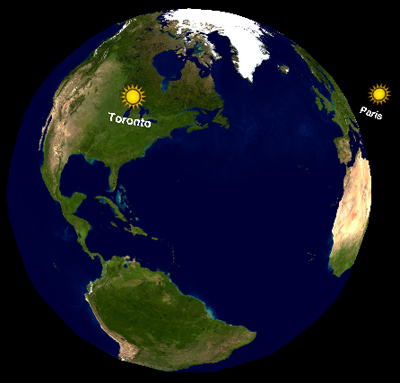
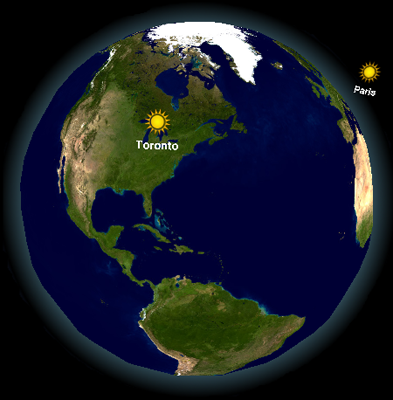
- Added atmosphere mesh

diff --git a/build/earth.min.js b/build/earth.min.js
@@ -1,1 +1,1 @@
-var EarthJsHelper;!function(a){var b=function(){function b(){a.Container.instance=this,this.dependencies={}}return b.prototype.register=function(a,b){this.dependencies[a]=b},b}();a.Container=b}(EarthJsHelper||(EarthJsHelper={}));var EarthJsModel;!function(a){var b=function(){function a(a,b,c,d){this.x=a,this.y=b,this.z=c,this.earthRadius=null!=d&&void 0!=d?d:Math.sqrt(Math.pow(a,2)+Math.pow(b,2)+Math.pow(c,2))}return a.prototype.calculateLatitudeLongitude=function(){var a=this.x,b=this.y,d=-this.z,e=6378137/this.earthRadius;a*=e,d*=e,b*=e;var f,g,h,i,j,k,l,m,n=6378137,o=.081819190842622,p=3.141592653589793;f=Math.sqrt(Math.pow(n,2)*(1-Math.pow(o,2))),g=Math.sqrt((Math.pow(n,2)-Math.pow(f,2))/Math.pow(f,2)),h=Math.sqrt(Math.pow(a,2)+Math.pow(d,2)),i=Math.atan2(n*b,f*h),j=Math.atan2(d,a),k=Math.atan2(b+g*g*f*Math.pow(Math.sin(i),3),h-o*o*n*Math.pow(Math.cos(i),3)),l=n/Math.sqrt(1-o*o*Math.pow(Math.sin(k),2)),m=h/Math.cos(k)-l,k=180*k/p,j=180*j/p;var q=new c(k,j);return q},a}();a.XyzPosition=b;var c=function(){function a(a,b,c){this.latitude=a,this.longitude=b,this.earthRadius=null!=c&&void 0!=c?c:EarthJsHelper.Container.instance.dependencies.appInstance.dataPointDistance,this.calculateCartesianCoordinates()}return a.prototype.calculateCartesianCoordinates=function(){var a=this.latitude,b=this.longitude;this.latitude=this.latitude*Math.PI/180,this.longitude=this.longitude*Math.PI/180,this.x=this.getX(),this.y=this.getY(),this.z=this.getZ(),this.latitude=a,this.longitude=b},a.prototype.getX=function(){var a=this.earthRadius*Math.cos(this.longitude)*Math.cos(this.latitude);return a},a.prototype.getY=function(){var a=this.earthRadius*Math.sin(this.latitude);return a},a.prototype.getZ=function(){var a=-1*this.earthRadius*Math.cos(this.latitude)*Math.sin(this.longitude);return a},a}();a.LatLongPosition=c}(EarthJsModel||(EarthJsModel={}));var EarthJsModel;!function(a){var b=function(){function a(a,b,c,d,e,f,g){this.id=a,this.title=b,this.latitude=c,this.longitude=d,this.detail=e,this.annotationType=f,this.annotationImage=g}return a}();a.JsonDataPoint=b}(EarthJsModel||(EarthJsModel={}));var EarthJsView;!function(a){var b=function(){function a(a){this.dataPoint=a,this.currentSize=1,this.earthManager=EarthJsHelper.Container.instance.dependencies.earthInstance,this.app=EarthJsHelper.Container.instance.dependencies.appInstance}return a.prototype.getType=function(){return"dot"},a.prototype.applyToEarth=function(){if(null!==this.earthManager&&void 0!==this.earthManager&&null!==this.earthManager.earthMesh&&void 0!==this.earthManager.earthMesh){var a=new THREE.ImageUtils.loadTexture(this.dataPoint.annotationImage),b=new THREE.MeshBasicMaterial({map:a});b.transparent=!0,b.opacity=0,b.depthWrite=!1;var c=new THREE.MeshBasicMaterial;c.transparent=!0,c.opacity=0,c.depthWrite=!1;var d=this;null!=a.image&&void 0!=a.image&&(a.image.onload=function(){d.mesh=new THREE.Object3D,d.mesh.overdraw=!0;var a=10,e=10,f=new THREE.Mesh(new THREE.PlaneGeometry(a,e),b);if(d.mesh.add(f),null!=d.dataPoint.title&&void 0!=d.dataPoint.title&&""!=d.dataPoint.title){var g=THREE.FontUtils.generateShapes(d.dataPoint.title,{font:"helvetiker",weight:"bold",size:3}),h=new THREE.ShapeGeometry(g),i=new THREE.Mesh(h,c);d.mesh.add(i);var j=i.geometry.boundingSphere.radius/2;i.position.y=-e,i.position.x=-j}d.mesh.position.x=d.dataPoint.position.x,d.mesh.position.y=d.dataPoint.position.y,d.mesh.position.z=d.dataPoint.position.z,d.mesh.dataPoint=d.dataPoint,d.mesh.lookAt(d.earthManager.camera.position),d.earthManager.earthMesh.add(d.mesh),d.app.registerRenderHook("dotAnnotation",d,d.onRender)});var e=setInterval(function(){b.opacity<=.99?(b.opacity+=.01,c.opacity+=.01):(b.opacity=1,c.opacity=1,clearInterval(e))},10)}},a.prototype.removeFromEarth=function(){if(null!==this.earthManager&&void 0!==this.earthManager&&null!==this.earthManager.earthMesh&&void 0!==this.earthManager.earthMesh){var a=1,b=this,c=setInterval(function(){if(a>=.01)for(var d=0;d<b.mesh.children.length;d++)a-=.01,b.mesh.children[d].material.opacity=a;else clearInterval(c),b.earthManager.earthMesh.remove(this.mesh)},10);this.app.unregisterRenderHook("dotAnnotation",this)}},a.prototype.hoveredOver=function(){this.hasHoveredOver=!0,this.hasHoveredOut=!1},a.prototype.hoveredOut=function(){this.hasHoveredOver=!1,this.hasHoveredOut=!0},a.prototype.onRender=function(a){var b=EarthJsHelper.Container.instance.dependencies.earthInstance;a.mesh.lookAt(b.camera.position),a.mesh.children,a.hasHoveredOver?a.currentSize<1.5?(a.mesh.scale.set(a.currentSize,a.currentSize,1),a.currentSize+=.1):a.hasHoveredOver=!1:a.hasHoveredOut&&(a.currentSize>1?(a.mesh.scale.set(a.currentSize,a.currentSize,1),a.currentSize-=.1):a.hasHoveredOut=!1)},a}();a.DotAnnotation=b}(EarthJsView||(EarthJsView={}));var EarthJsView;!function(a){var b=function(){function a(a){this.dataPoint=a,this.earthManager=EarthJsHelper.Container.instance.dependencies.earthInstance}return a.prototype.getType=function(){return"earthTexture"},a.prototype.applyToEarth=function(){if(null!==this.earthManager&&void 0!==this.earthManager&&null!==this.earthManager.earthMesh&&void 0!==this.earthManager.earthMesh){var a=THREE.ImageUtils.loadTexture(this.dataPoint.annotationImage);this.earthManager.earthMesh.material.map=a}},a.prototype.removeFromEarth=function(){null===this.earthManager||void 0===this.earthManager||null===this.earthManager.earthMesh||void 0===this.earthManager.earthMesh},a.prototype.hoveredOver=function(){},a.prototype.hoveredOut=function(){},a}();a.EarthTextureAnnotation=b}(EarthJsView||(EarthJsView={}));var EarthJsModel;!function(a){var b=function(){function b(a,b,c,d,e,f){this.id=a,this.title=b,this.position=c,this.detail=d,this.annotationType=e,this.annotationImage=f,"dot"===this.annotationType?this.annotation=new EarthJsView.DotAnnotation(this):"earthTexture"===this.annotationType&&(this.annotation=new EarthJsView.EarthTextureAnnotation(this))}return b.createDataPointFromJsonDataPoint=function(b){var c=new a.DataPoint(b.id,null===b.title||void 0===b.title?"":b.title,new a.LatLongPosition(null===b.latitude||void 0===b.latitude?0:b.latitude,null===b.longitude||void 0===b.longitude?0:b.longitude),null===b.detail||void 0===b.detail?"":b.detail,null===b.annotationType||void 0===b.annotationType?"dot":b.annotationType,null===b.annotationImage||void 0===b.annotationImage?"":b.annotationImage);return c},b}();a.DataPoint=b}(EarthJsModel||(EarthJsModel={}));var EarthJsController;!function(a){var b=function(){function b(b){this.dataPointSelectedCallBack=b,a.DataPointController.instance=this,this.dataPoints=[]}return b.prototype.loadDataPoints=function(b){this.removeDataPoints();for(var c=[],d=0;d<b.length;d++){var e=b[d];c.push(EarthJsModel.DataPoint.createDataPointFromJsonDataPoint(e))}a.DataPointController.instance.dataPointsLoaded(c)},b.prototype.selectDataPointById=function(a){for(var b=0;b<this.dataPoints.length;b++)this.dataPoints[b].id===a&&this.dataPointSelected(this.dataPoints[b])},b.prototype.addDataPoint=function(a){var b=EarthJsModel.DataPoint.createDataPointFromJsonDataPoint(a);this.dataPoints.push(b),b.annotation.applyToEarth()},b.prototype.removeDataPoints=function(){if(null!==this.dataPoints&&void 0!==this.dataPoints){for(var b=0;b<this.dataPoints.length;b++)"earthTexture"!==this.dataPoints[b].annotation.getType()&&this.dataPoints[b].annotation.removeFromEarth();a.DataPointController.instance.dataPointsLoaded([])}},b.prototype.removeDataPointById=function(a){for(var b=-1,c=0;c<this.dataPoints.length;c++)if(this.dataPoints[c].id===a){this.dataPoints[c].annotation.removeFromEarth(),b=c;break}-1!=b&&this.dataPoints.splice(b,1)},b.prototype.dataPointSelected=function(a){var b=EarthJsHelper.Container.instance.dependencies.earthInstance;b.dataPointClicked(a),null!=this.dataPointSelectedCallBack&&void 0!=this.dataPointSelectedCallBack&&this.dataPointSelectedCallBack(a)},b.prototype.dataPointsLoaded=function(b){a.DataPointController.instance.dataPoints=b;for(var c=0;c<this.dataPoints.length;c++)this.dataPoints[c].annotation.applyToEarth()},b}();a.DataPointController=b}(EarthJsController||(EarthJsController={}));var EarthJsHelper;!function(a){var b=function(){function b(b){this.controls=b,this.cameraIncrementStep=.2,this.app=a.Container.instance.dependencies.appInstance}return b.prototype.getIncrementBasedOnCameraPosition=function(a,b){var c;return c=a*b>0?b>a?this.cameraIncrementStep:a>b?-this.cameraIncrementStep:0:b>a?this.cameraIncrementStep:-this.cameraIncrementStep},b.prototype.moveCameraToLatLongCoordinates=function(a){var b,c,d,e,f=a.latitude,g=a.longitude,h=new EarthJsModel.XyzPosition(this.controls.object.position.x,this.controls.object.position.y,this.controls.object.position.z,1e3),i=h.calculateLatitudeLongitude(),j=[];b=i.latitude,c=i.longitude,d=this.getIncrementBasedOnCameraPosition(b,f),e=this.getIncrementBasedOnCameraPosition(c,g);var k=Math.abs(Math.abs(b)-Math.abs(f)),l=Math.abs(Math.abs(c)-Math.abs(g));for(k>l?e/=Math.abs(k/l):d/=Math.abs(l/k);Math.abs(b-f)>this.cameraIncrementStep||Math.abs(c-g)>this.cameraIncrementStep;){var m=null===this.app.cameraDistance||void 0===this.app.cameraDistance?1e3:this.app.cameraDistance,n=new EarthJsModel.LatLongPosition(b,c,m);j.push(n),Math.abs(b-f)>this.cameraIncrementStep&&(b+=d),Math.abs(c-g)>this.cameraIncrementStep&&(c+=e)}var o=0,p=this;if(j.length>0)var q=setInterval(function(){p.controls.object.position.x=j[o].x,p.controls.object.position.y=j[o].y,p.controls.object.position.z=j[o].z,o+=1,o===j.length&&(window.clearInterval(q),j=null)},5)},b.prototype.moveCamera=function(a,b){var c=this.controls.object.position.x,d=this.controls.object.position.y,e=this.controls.object.position.z,f=this.controls.target.x,g=this.controls.target.y,h=this.controls.target.z,i={x:c,y:d,z:e},j={x:a.head.x,y:a.head.y,z:a.head.z},k={x:f,y:g,z:h},l={x:a.target.x,y:a.target.y,z:a.target.z},m=this;this.tween1=new TWEEN.Tween({x:i.x,y:i.y,z:i.z}).to(j,1e3*b).easing(TWEEN.Easing.Cubic.InOut).onUpdate(function(){m.controls.object.position.x=this.x,m.controls.object.position.y=this.y,m.controls.object.position.z=this.z}).start(),this.tween2=new TWEEN.Tween({x:k.x,y:k.y,z:k.z}).to(l,1e3*b).easing(TWEEN.Easing.Cubic.InOut).onUpdate(function(){m.controls.target.x=this.x,m.controls.target.y=this.y,m.controls.target.z=this.z}).start()},b}();a.CameraHelper=b}(EarthJsHelper||(EarthJsHelper={}));var EarthJsController;!function(a){var b=function(){function a(a,b,c){this.scene=a,this.camera=b,this.controls=c,this.cameraHelper=new EarthJsHelper.CameraHelper(c);var d=new THREE.SphereGeometry(100,20,20),e=new THREE.MeshBasicMaterial({color:16777215});this.earthMesh=new THREE.Mesh(d,e),a.add(this.earthMesh)}return a.prototype.clickDataPoint=function(a){if(null!=a&&void 0!=a){var b=EarthJsHelper.Container.instance.dependencies.dataInstance;b.dataPointSelected(a)}},a.prototype.dataPointClicked=function(a){this.cameraHelper.moveCameraToLatLongCoordinates(a.position)},a.prototype.setTexture=function(a){var b=THREE.ImageUtils.loadTexture(a);this.earthMesh.material.map=b},a}();a.EarthController=b}(EarthJsController||(EarthJsController={}));var EarthJsModel;!function(a){var b=function(){function a(a,b){this.name=a,this.method=b}return a}();a.RenderHook=b}(EarthJsModel||(EarthJsModel={}));var EarthJsApp;!function(a){function b(){for(var a=0;a<r.length;a++)null!=r[a].method&&null!=r[a].caller&&r[a].method(r[a].caller);d.render(e,f)}function c(a){requestAnimationFrame(function(){c(new Date)}),a-+l>33&&(TWEEN.update(),g.update(),b(),l=a)}var d,e,f,g,h,i,j,k,l=new Date,m=400,n=150,o=2.7,p=120,q=600,r=[],s={x:0,y:0},t={x:0,y:0},u={x:0,y:0},v=function(){function b(b){this.htmlContainer=b,h=b,this.container=new EarthJsHelper.Container,a.App.instance=this,this.container.register("appInstance",a.App.instance),j=this,this.cameraDistance=300,this.dataPointDistance=120}return b.prototype.registerRenderHook=function(a,b,c){for(var d=0;d<r.length;d++)if(r[d].name===a&&r[d].caller===b)return r[d].caller=b,r[d].method=c,void 0;r.push({name:a,caller:b,method:c})},b.prototype.unregisterRenderHook=function(a,b){for(var c=0;c<r.length;c++)if(r[c].name===a&&r[c].caller===b)return r[c].caller=null,r[c].method=null,void 0},b.prototype.start=function(){this.init(),c(new Date)},b.prototype.setDataPoints=function(a){var b=EarthJsHelper.Container.instance.dependencies.dataInstance;b.loadDataPoints(a)},b.prototype.removeDataPoints=function(){var a=EarthJsHelper.Container.instance.dependencies.dataInstance;a.removeDataPoints()},b.prototype.removeDataPointById=function(a){var b=EarthJsHelper.Container.instance.dependencies.dataInstance;b.removeDataPointById(a)},b.prototype.addDataPoint=function(a){var b=EarthJsHelper.Container.instance.dependencies.dataInstance;b.addDataPoint(a)},b.prototype.setDataPointClickedCallback=function(a){var b=EarthJsHelper.Container.instance.dependencies.dataInstance;b.dataPointSelectedCallBack=a},b.prototype.setEarthTexture=function(a){this.earthManager.setTexture(a)},b.prototype.setSize=function(a,b){m=a,n=b},b.prototype.init=function(){this.setupScene(),this.setupCamera(),this.setupEvents();var a=new EarthJsController.DataPointController(null);this.container.register("dataInstance",a),this.earthManager=new EarthJsController.EarthController(e,f,g),this.container.register("earthInstance",this.earthManager);var b=new EarthJsModel.JsonDataPoint("0","EarthTexture",0,0,"","earthTexture","/examples/images/EarthTexture.jpg");a.loadDataPoints([b])},b.prototype.setupScene=function(){e=new THREE.Scene,i=new THREE.Projector,d=Detector.webgl?new THREE.WebGLRenderer:new THREE.CanvasRenderer,d.setSize(m,n),h.appendChild(d.domElement)},b.prototype.setupCamera=function(){f=new THREE.PerspectiveCamera(55,o,p,q),f.position.x=this.cameraDistance,g=new THREE.TrackballControls(f,h),g.rotateSpeed=1,g.zoomSpeed=.05,g.panSpeed=.2,g.noZoom=!1,g.noPan=!1,g.staticMoving=!1,g.dynamicDampingFactor=.3,g.minDistance=250,g.maxDistance=350,g.keys=[65,83,68]},b.prototype.setupEvents=function(){window.addEventListener("resize",this.onWindowResize,!1),h.addEventListener("mouseup",this.onDocumentMouseUp,!1),h.addEventListener("mousedown",this.onDocumentMouseDown,!1),h.addEventListener("mousemove",this.onDocumentMouseMove,!1),this.onWindowResize(null)},b.prototype.detectEvent=function(){var a=new THREE.Vector3(s.x,s.y,.5);i.unprojectVector(a,f);var b=new THREE.Raycaster(f.position,a.sub(f.position).normalize()),c=b.intersectObjects(j.earthManager.earthMesh.children,!0);if(c.length>0){var d=c[0].object.parent;k!=d.dataPoint&&(k=d.dataPoint,null!=k&&void 0!=k&&k.annotation.hoveredOver())}else this.hoveredOut();u.x=s.x,u.y=s.y},b.prototype.hoveredOut=function(){null!=k&&k.annotation.hoveredOut(),k=null},b.prototype.onDocumentMouseMove=function(b){var c=a.App.instance.findElementPosition(h);if(!(b.clientX>c.x+m||b.clientY>c.y+n)){var d={x:b.clientX-c.x,y:b.clientY-c.y};s.x=2*(d.x/m)-1,s.y=2*-(d.y/n)+1,(Math.abs(u.x-s.x)>.01||Math.abs(u.y-s.y)>.01)&&a.App.instance.detectEvent()}},b.prototype.findElementPosition=function(a){var b,c;if(b=0,c=0,a.offsetParent)do b+=a.offsetLeft,c+=a.offsetTop;while(a=a.offsetParent);return{x:b,y:c}},b.prototype.onDocumentMouseUp=function(a){a.preventDefault(),s.x=2*(a.clientX/window.innerWidth)-1,s.y=2*-(a.clientY/window.innerHeight)+1;var b={x:0,y:0};b.x=Math.abs(s.x-t.x),b.y=Math.abs(s.y-t.y),b.x<.001&&b.y<.001&&null!=k&&void 0!=k&&j.earthManager.clickDataPoint(k)},b.prototype.onDocumentMouseDown=function(a){t.x=2*(a.clientX/window.innerWidth)-1,t.y=2*-(a.clientY/window.innerHeight)+1},b.prototype.onWindowResize=function(){var a=0===m?window.innerWidth:m,b=0===n?window.innerHeight:n;f.aspect=a/b,f.updateProjectionMatrix(),d.setSize(a,b),d.domElement.style.width=a+"px",d.domElement.style.height=b+"px"},b}();a.App=v}(EarthJsApp||(EarthJsApp={}));
+var EarthJsHelper;!function(a){var b=function(){function b(){a.Container.instance=this,this.dependencies={}}return b.prototype.register=function(a,b){this.dependencies[a]=b},b}();a.Container=b}(EarthJsHelper||(EarthJsHelper={}));var EarthJsModel;!function(a){var b=function(){function a(a,b,c,d){this.x=a,this.y=b,this.z=c,this.earthRadius=null!=d&&void 0!=d?d:Math.sqrt(Math.pow(a,2)+Math.pow(b,2)+Math.pow(c,2))}return a.prototype.calculateLatitudeLongitude=function(){var a=this.x,b=this.y,d=-this.z,e=6378137/this.earthRadius;a*=e,d*=e,b*=e;var f,g,h,i,j,k,l,m,n=6378137,o=.081819190842622,p=3.141592653589793;f=Math.sqrt(Math.pow(n,2)*(1-Math.pow(o,2))),g=Math.sqrt((Math.pow(n,2)-Math.pow(f,2))/Math.pow(f,2)),h=Math.sqrt(Math.pow(a,2)+Math.pow(d,2)),i=Math.atan2(n*b,f*h),j=Math.atan2(d,a),k=Math.atan2(b+g*g*f*Math.pow(Math.sin(i),3),h-o*o*n*Math.pow(Math.cos(i),3)),l=n/Math.sqrt(1-o*o*Math.pow(Math.sin(k),2)),m=h/Math.cos(k)-l,k=180*k/p,j=180*j/p;var q=new c(k,j);return q},a}();a.XyzPosition=b;var c=function(){function a(a,b,c){this.latitude=a,this.longitude=b,this.earthRadius=null!=c&&void 0!=c?c:EarthJsHelper.Container.instance.dependencies.appInstance.dataPointDistance,this.calculateCartesianCoordinates()}return a.prototype.calculateCartesianCoordinates=function(){var a=this.latitude,b=this.longitude;this.latitude=this.latitude*Math.PI/180,this.longitude=this.longitude*Math.PI/180,this.x=this.getX(),this.y=this.getY(),this.z=this.getZ(),this.latitude=a,this.longitude=b},a.prototype.getX=function(){var a=this.earthRadius*Math.cos(this.longitude)*Math.cos(this.latitude);return a},a.prototype.getY=function(){var a=this.earthRadius*Math.sin(this.latitude);return a},a.prototype.getZ=function(){var a=-1*this.earthRadius*Math.cos(this.latitude)*Math.sin(this.longitude);return a},a}();a.LatLongPosition=c}(EarthJsModel||(EarthJsModel={}));var EarthJsModel;!function(a){var b=function(){function a(a,b,c,d,e,f,g){this.id=a,this.title=b,this.latitude=c,this.longitude=d,this.detail=e,this.annotationType=f,this.annotationImage=g}return a}();a.JsonDataPoint=b}(EarthJsModel||(EarthJsModel={}));var EarthJsView;!function(a){var b=function(){function a(a){this.dataPoint=a,this.currentSize=1,this.earthManager=EarthJsHelper.Container.instance.dependencies.earthInstance,this.app=EarthJsHelper.Container.instance.dependencies.appInstance}return a.prototype.getType=function(){return"dot"},a.prototype.applyToEarth=function(){if(null!==this.earthManager&&void 0!==this.earthManager&&null!==this.earthManager.earthMesh&&void 0!==this.earthManager.earthMesh){var a=new THREE.ImageUtils.loadTexture(this.dataPoint.annotationImage),b=new THREE.MeshBasicMaterial({map:a});b.transparent=!0,b.opacity=0,b.depthWrite=!1;var c=new THREE.MeshBasicMaterial;c.transparent=!0,c.opacity=0,c.depthWrite=!1;var d=this;null!=a.image&&void 0!=a.image&&(a.image.onload=function(){d.mesh=new THREE.Object3D,d.mesh.overdraw=!0;var a=10,e=10,f=new THREE.Mesh(new THREE.PlaneGeometry(a,e),b);if(d.mesh.add(f),null!=d.dataPoint.title&&void 0!=d.dataPoint.title&&""!=d.dataPoint.title){var g=THREE.FontUtils.generateShapes(d.dataPoint.title,{font:"helvetiker",weight:"bold",size:3}),h=new THREE.ShapeGeometry(g),i=new THREE.Mesh(h,c);d.mesh.add(i);var j=i.geometry.boundingSphere.radius/2;i.position.y=-e,i.position.x=-j}d.mesh.position.x=d.dataPoint.position.x,d.mesh.position.y=d.dataPoint.position.y,d.mesh.position.z=d.dataPoint.position.z,d.mesh.dataPoint=d.dataPoint,d.mesh.lookAt(d.earthManager.camera.position),d.earthManager.earthMesh.add(d.mesh),d.app.registerRenderHook("dotAnnotation",d,d.onRender)});var e=setInterval(function(){b.opacity<=.99?(b.opacity+=.01,c.opacity+=.01):(b.opacity=1,c.opacity=1,clearInterval(e))},10)}},a.prototype.removeFromEarth=function(){if(null!==this.earthManager&&void 0!==this.earthManager&&null!==this.earthManager.earthMesh&&void 0!==this.earthManager.earthMesh){var a=1,b=this,c=setInterval(function(){if(a>=.01)for(var d=0;d<b.mesh.children.length;d++)a-=.01,b.mesh.children[d].material.opacity=a;else clearInterval(c),b.earthManager.earthMesh.remove(this.mesh)},10);this.app.unregisterRenderHook("dotAnnotation",this)}},a.prototype.hoveredOver=function(){this.hasHoveredOver=!0,this.hasHoveredOut=!1},a.prototype.hoveredOut=function(){this.hasHoveredOver=!1,this.hasHoveredOut=!0},a.prototype.onRender=function(a){var b=EarthJsHelper.Container.instance.dependencies.earthInstance;a.mesh.lookAt(b.camera.position),a.mesh.children,a.hasHoveredOver?a.currentSize<1.5?(a.mesh.scale.set(a.currentSize,a.currentSize,1),a.currentSize+=.1):a.hasHoveredOver=!1:a.hasHoveredOut&&(a.currentSize>1?(a.mesh.scale.set(a.currentSize,a.currentSize,1),a.currentSize-=.1):a.hasHoveredOut=!1)},a}();a.DotAnnotation=b}(EarthJsView||(EarthJsView={}));var EarthJsView;!function(a){var b=function(){function a(a){this.dataPoint=a,this.earthManager=EarthJsHelper.Container.instance.dependencies.earthInstance}return a.prototype.getType=function(){return"earthTexture"},a.prototype.applyToEarth=function(){if(null!==this.earthManager&&void 0!==this.earthManager&&null!==this.earthManager.earthMesh&&void 0!==this.earthManager.earthMesh){var a=THREE.ImageUtils.loadTexture(this.dataPoint.annotationImage);this.earthManager.earthMesh.material.map=a}},a.prototype.removeFromEarth=function(){null===this.earthManager||void 0===this.earthManager||null===this.earthManager.earthMesh||void 0===this.earthManager.earthMesh},a.prototype.hoveredOver=function(){},a.prototype.hoveredOut=function(){},a}();a.EarthTextureAnnotation=b}(EarthJsView||(EarthJsView={}));var EarthJsModel;!function(a){var b=function(){function b(a,b,c,d,e,f){this.id=a,this.title=b,this.position=c,this.detail=d,this.annotationType=e,this.annotationImage=f,"dot"===this.annotationType?this.annotation=new EarthJsView.DotAnnotation(this):"earthTexture"===this.annotationType&&(this.annotation=new EarthJsView.EarthTextureAnnotation(this))}return b.createDataPointFromJsonDataPoint=function(b){var c=new a.DataPoint(b.id,null===b.title||void 0===b.title?"":b.title,new a.LatLongPosition(null===b.latitude||void 0===b.latitude?0:b.latitude,null===b.longitude||void 0===b.longitude?0:b.longitude),null===b.detail||void 0===b.detail?"":b.detail,null===b.annotationType||void 0===b.annotationType?"dot":b.annotationType,null===b.annotationImage||void 0===b.annotationImage?"":b.annotationImage);return c},b}();a.DataPoint=b}(EarthJsModel||(EarthJsModel={}));var EarthJsController;!function(a){var b=function(){function b(b){this.dataPointSelectedCallBack=b,a.DataPointController.instance=this,this.dataPoints=[]}return b.prototype.loadDataPoints=function(b){this.removeDataPoints();for(var c=[],d=0;d<b.length;d++){var e=b[d];c.push(EarthJsModel.DataPoint.createDataPointFromJsonDataPoint(e))}a.DataPointController.instance.dataPointsLoaded(c)},b.prototype.selectDataPointById=function(a){for(var b=0;b<this.dataPoints.length;b++)this.dataPoints[b].id===a&&this.dataPointSelected(this.dataPoints[b])},b.prototype.addDataPoint=function(a){var b=EarthJsModel.DataPoint.createDataPointFromJsonDataPoint(a);this.dataPoints.push(b),b.annotation.applyToEarth()},b.prototype.removeDataPoints=function(){if(null!==this.dataPoints&&void 0!==this.dataPoints){for(var b=0;b<this.dataPoints.length;b++)"earthTexture"!==this.dataPoints[b].annotation.getType()&&this.dataPoints[b].annotation.removeFromEarth();a.DataPointController.instance.dataPointsLoaded([])}},b.prototype.removeDataPointById=function(a){for(var b=-1,c=0;c<this.dataPoints.length;c++)if(this.dataPoints[c].id===a){this.dataPoints[c].annotation.removeFromEarth(),b=c;break}-1!=b&&this.dataPoints.splice(b,1)},b.prototype.dataPointSelected=function(a){var b=EarthJsHelper.Container.instance.dependencies.earthInstance;b.dataPointClicked(a),null!=this.dataPointSelectedCallBack&&void 0!=this.dataPointSelectedCallBack&&this.dataPointSelectedCallBack(a)},b.prototype.dataPointsLoaded=function(b){a.DataPointController.instance.dataPoints=b;for(var c=0;c<this.dataPoints.length;c++)this.dataPoints[c].annotation.applyToEarth()},b}();a.DataPointController=b}(EarthJsController||(EarthJsController={}));var EarthJsHelper;!function(a){var b=function(){function b(b){this.controls=b,this.cameraIncrementStep=.2,this.app=a.Container.instance.dependencies.appInstance}return b.prototype.getIncrementBasedOnCameraPosition=function(a,b){var c;return c=a*b>0?b>a?this.cameraIncrementStep:a>b?-this.cameraIncrementStep:0:b>a?this.cameraIncrementStep:-this.cameraIncrementStep},b.prototype.moveCameraToLatLongCoordinates=function(a){var b,c,d,e,f=a.latitude,g=a.longitude,h=new EarthJsModel.XyzPosition(this.controls.object.position.x,this.controls.object.position.y,this.controls.object.position.z,1e3),i=h.calculateLatitudeLongitude(),j=[];b=i.latitude,c=i.longitude,d=this.getIncrementBasedOnCameraPosition(b,f),e=this.getIncrementBasedOnCameraPosition(c,g);var k=Math.abs(Math.abs(b)-Math.abs(f)),l=Math.abs(Math.abs(c)-Math.abs(g));for(k>l?e/=Math.abs(k/l):d/=Math.abs(l/k);Math.abs(b-f)>this.cameraIncrementStep||Math.abs(c-g)>this.cameraIncrementStep;){var m=null===this.app.cameraDistance||void 0===this.app.cameraDistance?1e3:this.app.cameraDistance,n=new EarthJsModel.LatLongPosition(b,c,m);j.push(n),Math.abs(b-f)>this.cameraIncrementStep&&(b+=d),Math.abs(c-g)>this.cameraIncrementStep&&(c+=e)}var o=0,p=this;if(j.length>0)var q=setInterval(function(){p.controls.object.position.x=j[o].x,p.controls.object.position.y=j[o].y,p.controls.object.position.z=j[o].z,o+=1,o===j.length&&(window.clearInterval(q),j=null)},5)},b.prototype.moveCamera=function(a,b){var c=this.controls.object.position.x,d=this.controls.object.position.y,e=this.controls.object.position.z,f=this.controls.target.x,g=this.controls.target.y,h=this.controls.target.z,i={x:c,y:d,z:e},j={x:a.head.x,y:a.head.y,z:a.head.z},k={x:f,y:g,z:h},l={x:a.target.x,y:a.target.y,z:a.target.z},m=this;this.tween1=new TWEEN.Tween({x:i.x,y:i.y,z:i.z}).to(j,1e3*b).easing(TWEEN.Easing.Cubic.InOut).onUpdate(function(){m.controls.object.position.x=this.x,m.controls.object.position.y=this.y,m.controls.object.position.z=this.z}).start(),this.tween2=new TWEEN.Tween({x:k.x,y:k.y,z:k.z}).to(l,1e3*b).easing(TWEEN.Easing.Cubic.InOut).onUpdate(function(){m.controls.target.x=this.x,m.controls.target.y=this.y,m.controls.target.z=this.z}).start()},b}();a.CameraHelper=b}(EarthJsHelper||(EarthJsHelper={}));var EarthJsController;!function(a){var b=function(){function a(a,b,c){this.scene=a,this.camera=b,this.controls=c,this.cameraHelper=new EarthJsHelper.CameraHelper(c);var d=new THREE.SphereGeometry(100,20,20),e=new THREE.MeshBasicMaterial({color:16777215});this.earthMesh=new THREE.Mesh(d,e);var f=THREE.ImageUtils.loadTexture(""),g=new THREE.SpriteMaterial({map:f,useScreenCoordinates:!1,blending:THREE.AdditiveBlending});this.atmosphereMesh=new THREE.Sprite(g),this.atmosphereMesh.position.x=0,this.atmosphereMesh.position.y=0,this.atmosphereMesh.position.z=0,this.atmosphereMesh.scale=new THREE.Vector3(270,270,270),this.earthMesh.add(this.atmosphereMesh),a.add(this.earthMesh)}return a.prototype.clickDataPoint=function(a){if(null!=a&&void 0!=a){var b=EarthJsHelper.Container.instance.dependencies.dataInstance;b.dataPointSelected(a)}},a.prototype.dataPointClicked=function(a){this.cameraHelper.moveCameraToLatLongCoordinates(a.position)},a.prototype.setTexture=function(a){var b=THREE.ImageUtils.loadTexture(a);this.earthMesh.material.map=b},a.prototype.setAtmosphereTexture=function(a){var b=THREE.ImageUtils.loadTexture(a);this.atmosphereMesh.material.map=b},a}();a.EarthController=b}(EarthJsController||(EarthJsController={}));var EarthJsModel;!function(a){var b=function(){function a(a,b){this.name=a,this.method=b}return a}();a.RenderHook=b}(EarthJsModel||(EarthJsModel={}));var EarthJsApp;!function(a){function b(){for(var a=0;a<r.length;a++)null!=r[a].method&&null!=r[a].caller&&r[a].method(r[a].caller);d.render(e,f)}function c(a){requestAnimationFrame(function(){c(new Date)}),a-+l>33&&(TWEEN.update(),g.update(),b(),l=a)}var d,e,f,g,h,i,j,k,l=new Date,m=400,n=150,o=2.7,p=120,q=600,r=[],s={x:0,y:0},t={x:0,y:0},u={x:0,y:0},v=function(){function b(b){this.htmlContainer=b,h=b,this.container=new EarthJsHelper.Container,a.App.instance=this,this.container.register("appInstance",a.App.instance),j=this,this.cameraDistance=300,this.dataPointDistance=120}return b.prototype.registerRenderHook=function(a,b,c){for(var d=0;d<r.length;d++)if(r[d].name===a&&r[d].caller===b)return r[d].caller=b,r[d].method=c,void 0;r.push({name:a,caller:b,method:c})},b.prototype.unregisterRenderHook=function(a,b){for(var c=0;c<r.length;c++)if(r[c].name===a&&r[c].caller===b)return r[c].caller=null,r[c].method=null,void 0},b.prototype.start=function(){this.init(),c(new Date)},b.prototype.setDataPoints=function(a){var b=EarthJsHelper.Container.instance.dependencies.dataInstance;b.loadDataPoints(a)},b.prototype.removeDataPoints=function(){var a=EarthJsHelper.Container.instance.dependencies.dataInstance;a.removeDataPoints()},b.prototype.removeDataPointById=function(a){var b=EarthJsHelper.Container.instance.dependencies.dataInstance;b.removeDataPointById(a)},b.prototype.addDataPoint=function(a){var b=EarthJsHelper.Container.instance.dependencies.dataInstance;b.addDataPoint(a)},b.prototype.setDataPointClickedCallback=function(a){var b=EarthJsHelper.Container.instance.dependencies.dataInstance;b.dataPointSelectedCallBack=a},b.prototype.setEarthTexture=function(a){this.earthManager.setTexture(a)},b.prototype.setAtmosphereTexture=function(a){this.earthManager.setAtmosphereTexture(a)},b.prototype.setSize=function(a,b){m=a,n=b},b.prototype.init=function(){this.setupScene(),this.setupCamera(),this.setupEvents();var a=new EarthJsController.DataPointController(null);this.container.register("dataInstance",a),this.earthManager=new EarthJsController.EarthController(e,f,g),this.container.register("earthInstance",this.earthManager);var b=new EarthJsModel.JsonDataPoint("0","EarthTexture",0,0,"","earthTexture","/examples/images/EarthTexture.jpg");a.loadDataPoints([b])},b.prototype.setupScene=function(){e=new THREE.Scene,i=new THREE.Projector,d=Detector.webgl?new THREE.WebGLRenderer:new THREE.CanvasRenderer,d.setSize(m,n),h.appendChild(d.domElement)},b.prototype.setupCamera=function(){f=new THREE.PerspectiveCamera(55,o,p,q),f.position.x=this.cameraDistance,g=new THREE.TrackballControls(f,h),g.rotateSpeed=1,g.zoomSpeed=.05,g.panSpeed=.2,g.noZoom=!1,g.noPan=!1,g.staticMoving=!1,g.dynamicDampingFactor=.3,g.minDistance=250,g.maxDistance=350,g.keys=[65,83,68]},b.prototype.setupEvents=function(){window.addEventListener("resize",this.onWindowResize,!1),h.addEventListener("mouseup",this.onDocumentMouseUp,!1),h.addEventListener("mousedown",this.onDocumentMouseDown,!1),h.addEventListener("mousemove",this.onDocumentMouseMove,!1),this.onWindowResize(null)},b.prototype.detectEvent=function(){var a=new THREE.Vector3(s.x,s.y,.5);i.unprojectVector(a,f);var b=new THREE.Raycaster(f.position,a.sub(f.position).normalize()),c=b.intersectObjects(j.earthManager.earthMesh.children,!0);if(c.length>0){var d=c[0].object.parent;k!=d.dataPoint&&(k=d.dataPoint,null!=k&&void 0!=k&&k.annotation.hoveredOver())}else this.hoveredOut();u.x=s.x,u.y=s.y},b.prototype.hoveredOut=function(){null!=k&&k.annotation.hoveredOut(),k=null},b.prototype.onDocumentMouseMove=function(b){var c=a.App.instance.findElementPosition(h);if(!(b.clientX>c.x+m||b.clientY>c.y+n)){var d={x:b.clientX-c.x,y:b.clientY-c.y};s.x=2*(d.x/m)-1,s.y=2*-(d.y/n)+1,(Math.abs(u.x-s.x)>.01||Math.abs(u.y-s.y)>.01)&&a.App.instance.detectEvent()}},b.prototype.findElementPosition=function(a){var b,c;if(b=0,c=0,a.offsetParent)do b+=a.offsetLeft,c+=a.offsetTop;while(a=a.offsetParent);return{x:b,y:c}},b.prototype.onDocumentMouseUp=function(a){a.preventDefault(),s.x=2*(a.clientX/window.innerWidth)-1,s.y=2*-(a.clientY/window.innerHeight)+1;var b={x:0,y:0};b.x=Math.abs(s.x-t.x),b.y=Math.abs(s.y-t.y),b.x<.001&&b.y<.001&&null!=k&&void 0!=k&&j.earthManager.clickDataPoint(k)},b.prototype.onDocumentMouseDown=function(a){t.x=2*(a.clientX/window.innerWidth)-1,t.y=2*-(a.clientY/window.innerHeight)+1},b.prototype.onWindowResize=function(){var a=0===m?window.innerWidth:m,b=0===n?window.innerHeight:n;f.aspect=a/b,f.updateProjectionMatrix(),d.setSize(a,b),d.domElement.style.width=a+"px",d.domElement.style.height=b+"px"},b}();a.App=v}(EarthJsApp||(EarthJsApp={}));

diff --git a/build/earth.js b/build/earth.js
@@ -498,6 +498,17 @@ var EarthJsController;
             var material = new THREE.MeshBasicMaterial({ color: 0xffffff });
 
             this.earthMesh = new THREE.Mesh(geometry, material);
+
+            var spriteMap = THREE.ImageUtils.loadTexture('');
+            var spriteMaterial = new THREE.SpriteMaterial({ map: spriteMap, useScreenCoordinates: false, blending: THREE.AdditiveBlending });
+            this.atmosphereMesh = new THREE.Sprite(spriteMaterial);
+            this.atmosphereMesh.position.x = 0;
+            this.atmosphereMesh.position.y = 0;
+            this.atmosphereMesh.position.z = 0;
+            this.atmosphereMesh.scale = new THREE.Vector3(270, 270, 270);
+
+            this.earthMesh.add(this.atmosphereMesh);
+
             scene.add(this.earthMesh);
         }
         EarthController.prototype.clickDataPoint = function (dataPoint) {
@@ -514,6 +525,11 @@ var EarthJsController;
         EarthController.prototype.setTexture = function (textureUrl) {
             var map = THREE.ImageUtils.loadTexture(textureUrl);
             this.earthMesh.material.map = map;
+        };
+
+        EarthController.prototype.setAtmosphereTexture = function (textureUrl) {
+            var map = THREE.ImageUtils.loadTexture(textureUrl);
+            this.atmosphereMesh.material.map = map;
         };
         return EarthController;
     })();
@@ -626,6 +642,10 @@ var EarthJsApp;
 
         App.prototype.setEarthTexture = function (textureUrl) {
             this.earthManager.setTexture(textureUrl);
+        };
+
+        App.prototype.setAtmosphereTexture = function (textureUrl) {
+            this.earthManager.setAtmosphereTexture(textureUrl);
         };
 
         App.prototype.setSize = function (width, height) {

diff --git a/src/controllers/EarthController.ts b/src/controllers/EarthController.ts
@@ -11,14 +11,17 @@ module EarthJsController{
 
 	export interface IEarthController{
 		earthMesh: any;
+		atmosphereMesh: any;
 		camera: any;
 		dataPointClicked(dataPoint: EarthJsModel.IDataPoint): void;
 		clickDataPoint(dataPoint: EarthJsModel.IDataPoint): void;
 		setTexture(textureUrl: string): void;
+		setAtmosphereTexture(textureUrl: string): void;
 	}
 
 	export class EarthController implements IEarthController {
 		earthMesh: any;
+		atmosphereMesh: any;
 		cameraHelper: EarthJsHelper.ICameraHelper;
 		camera: any;
 		scene: any;
@@ -35,6 +38,17 @@ module EarthJsController{
 	        var material = new THREE.MeshBasicMaterial( { color: 0xffffff } );
 
 	       	this.earthMesh = new THREE.Mesh( geometry, material );
+
+	       	var spriteMap = THREE.ImageUtils.loadTexture('');
+		    var spriteMaterial = new THREE.SpriteMaterial( { map: spriteMap, useScreenCoordinates: false, blending: THREE.AdditiveBlending } );
+			this.atmosphereMesh = new THREE.Sprite(spriteMaterial);
+			this.atmosphereMesh.position.x = 0;
+		    this.atmosphereMesh.position.y = 0;
+		    this.atmosphereMesh.position.z = 0;
+			this.atmosphereMesh.scale = new THREE.Vector3( 270, 270, 270 );
+		    
+		    this.earthMesh.add(this.atmosphereMesh);
+
 	        scene.add( this.earthMesh );
 		}
 
@@ -53,6 +67,11 @@ module EarthJsController{
 		setTexture(textureUrl: string): void{
 			var map = THREE.ImageUtils.loadTexture(textureUrl);
 			this.earthMesh.material.map = map;
+		}
+
+		setAtmosphereTexture(textureUrl: string): void{
+			var map = THREE.ImageUtils.loadTexture(textureUrl);
+			this.atmosphereMesh.material.map = map;
 		}
 	}
 }

diff --git a/examples/angularjs/index.html b/examples/angularjs/index.html
@@ -17,9 +17,10 @@
 			{id:'1', title:'Toronto', latitude:43.65323, longitude:-79.38318, detail:'Toronto, Canada - Sunny weather', annotationImage: '/examples/images/Sunny-icon.png',background:''},
 			{id:'2', title:'Paris', latitude:48.85661, longitude:2.35222, detail:'Paris, France - Sunny weather', annotationImage: '/examples/images/Sunny-icon.png',background:''}
 			];
-			
+
 			// Change the texture of the earth model
 			$scope.earthTexture = '/examples/images/EarthTexture.jpg';
+
 
 			// The function for adding a data point to the dataPoints array. 
 			// Since dataPoints are linked to the directive, the data points on the earth model will get updated automatically
@@ -74,7 +75,7 @@
 			</form>
 		</div>
 		<div style="float:right;">
-			<earth dataPoints="{{dataPoints}}" earthTexture="{{earthTexture}}" dataPointClickedCallback="dataPointClicked" width="600" height="600" />
+			<earth dataPoints="{{dataPoints}}" earthTexture="{{earthTexture}}" atmosphereTexture="/examples/images/atmosphere.png" dataPointClickedCallback="dataPointClicked" width="600" height="600" />
 		<div>
 	</div>
 </body>

diff --git a/src/plugins/jquery.earth.js b/src/plugins/jquery.earth.js
@@ -9,7 +9,8 @@
     	var settings = $.extend({
 		    dataPointClickedCallback:null,
 		    width:0,
-		    height:0
+		    height:0,
+		    atmosphereTexture:''
 		}, options);
 
     	var plugin = this.each( function() {
@@ -39,10 +40,14 @@
             else{
                 height = parseInt(settings.height);
             }
-
-            appInstance.setSize(width, height);
             
+			appInstance.setSize(width, height);
+
     		appInstance.start();
+
+            var atmosphereTexture = settings.atmosphereTexture;
+            appInstance.setAtmosphereTexture(atmosphereTexture);
+
     		appInstances.push(appInstance);
 		    if ( $.isFunction( settings.dataPointClickedCallback ) ) {
 		    	appInstance.setDataPointClickedCallback(settings.dataPointClickedCallback);

diff --git a/examples/jquery/index.html b/examples/jquery/index.html
@@ -29,7 +29,7 @@
 			};
 
 			// Setup the plugin here
-			var earthPlugin = $('#earth').earth({'width':'600','height':'600','dataPointClickedCallback':dataPointClickedCallback});
+			var earthPlugin = $('#earth').earth({'width':'600','height':'600','dataPointClickedCallback':dataPointClickedCallback,'atmosphereTexture':'/examples/images/atmosphere.png'});
 			// Change the texture of the earth model
 			earthPlugin.setEarthTexture('/examples/images/EarthTexture.jpg');
 			// Set the data points on the map. This function will replace all the existing data points with the given data points.

diff --git a/src/plugins/angular.earth.js b/src/plugins/angular.earth.js
@@ -68,6 +68,9 @@ angular
 
             appInstance.start();
 
+            var atmosphereTexture = attrs.atmospheretexture;
+            appInstance.setAtmosphereTexture(atmosphereTexture);
+
             if (attrs.datapointclickedcallback != null && attrs.datapointclickedcallback != undefined){
                 appInstance.setDataPointClickedCallback(function(dataPoint){
                     $scope[attrs.datapointclickedcallback](dataPoint);

diff --git a/src/Main.ts b/src/Main.ts
@@ -125,6 +125,10 @@ module EarthJsApp {
 			this.earthManager.setTexture(textureUrl);
 		}
 
+		public setAtmosphereTexture(textureUrl: string): void{
+			this.earthManager.setAtmosphereTexture(textureUrl);
+		}
+
 		public setSize(width: number, height: number): void{
 			_width = width;
 			_height = height;

diff --git a/README.md b/README.md
@@ -45,7 +45,7 @@ For AngularJS directive download the [file](https://github.com/esfandiar/earth.j
 <!-- This is only an example. The only thing that you really need to include is the earth directive -->
 <body ng-app="myApp">
 	<div ng-controller="myController">
-		<earth dataPoints="{{dataPoints}}" earthTexture="{{earthTexture}}" dataPointClickedCallback="dataPointClicked" width="600" height="600" />
+		<earth dataPoints="{{dataPoints}}" earthTexture="{{earthTexture}}" atmosphereTexture="/examples/images/atmosphere.png" dataPointClickedCallback="dataPointClicked" width="600" height="600" />
 	</div>
 </body>
 ```
@@ -66,6 +66,7 @@ annotationImage: 'URL of the image for the data point'}
 - dataPointClickedCallback: the callback function that will be called when a data point is clicked on the earth model (if you are updating the $scope, remember to wrap it in $scope.$apply in here since the function is called externally on a seperate run).
 - width: the width of the directive. The possible values are "fullScreen" or a static value in pixels, such as "600".
 - height: the height of the directive. The possible values are "fullScreen" or a static value in pixels, such as "600".
+- atmosphereTexture: the URL of the image for atmosphere's texture. As a suggestion you can just use the atmosphere texture that is already included in /examples/images folder.
 
 #### jQuery Plugin ####
 
@@ -85,11 +86,12 @@ Here's a full [example](https://github.com/esfandiar/earth.js/tree/master/exampl
 
 Setup:
 ```
-$('#earth').earth({'width':'600','height':'600','dataPointClickedCallback':dataPointClickedCallback});
+$('#earth').earth({'width':'600','height':'600','dataPointClickedCallback':dataPointClickedCallback,'atmosphereTexture':'/examples/images/atmosphere.png'});
 ```
 - width: the width of the plugin. The possible values are "fullScreen" or a static value in pixels, such as "600".
 - height: the height of the plugin. The possible values are "fullScreen" or a static value in pixels, such as "600".
 - dataPointClickedCallback: the callback function that will be called when a data point is clicked on the earth model.
+- atmosphereTexture: the URL of the image for atmosphere's texture. As a suggestion you can just use the atmosphere texture that is already included in /examples/images folder.
 
 Available functions for the plugin:
 - setDataPoints(dataPoints): Set the data points on the earth model. The data points are an array of JSON objects. Each data point should have the following format:

diff --git a/CHANGELOG.md b/CHANGELOG.md
@@ -1,6 +1,11 @@
-v0.1.0
-------
+v0.1.0 - 2013.07.21
+-------------------
 - Initial commit.
 
-v0.1.1
+v0.1.1 - 2013.07.19
+-------------------
 - Added threejsLibs.js to libs which includes Three.js r58. r59 is not yet compatible.
+
+v0.2.0 - 2013.07.21
+-------------------
+- Added atmosphere mesh for earth.
